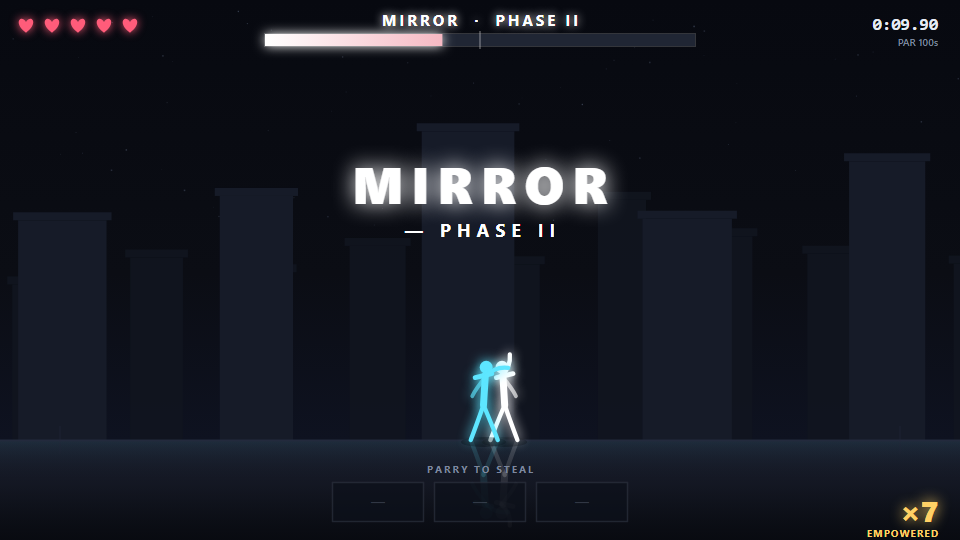
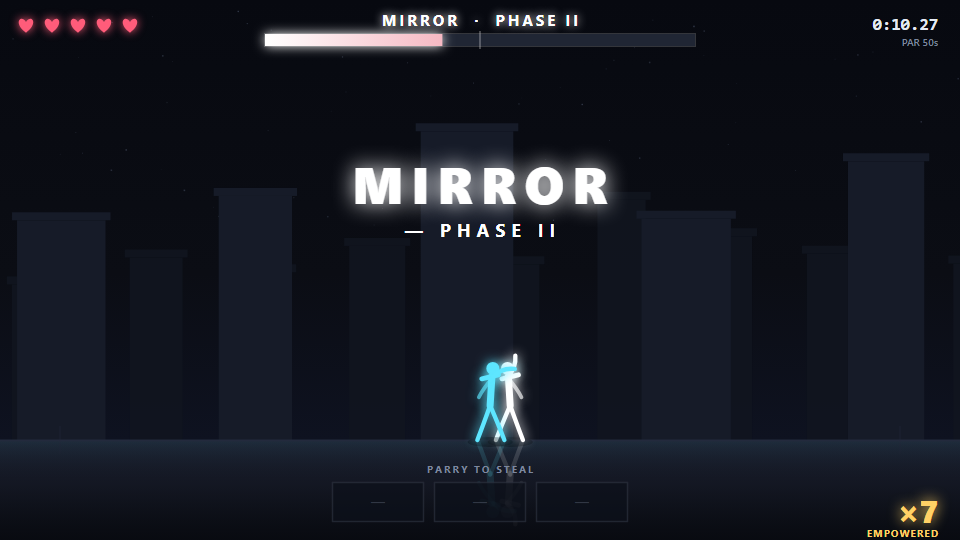
docs: README 8보스·스토리 절, CLAUDE.md 테스트 6종, handover 교훈, 스펙 §3.6/§7/§10 정정, 계획서

Changed region(s): [[0.4688, 0.6519, 0.5625, 0.8889], [0.9062, 0.0296, 1.0, 0.0889], [0.9375, 0.9185, 0.9688, 0.9778]]

diff --git a/docs/superpowers/specs/2026-09-09-riposte-design.md b/docs/superpowers/specs/2026-09-09-riposte-design.md
@@ -182,7 +182,7 @@
 - P1 패턴: `[thrust]`, `[feint-thrust]`, `[slash, thrust]`, `[arrow, close, slash]`, `[slam]`
 - P2 패턴: `[mirror ×hand.length]`, `[feint-slash, thrust]`, `[execution]`, `[arrow, arrow, slam]`
 
-### 3.5 LANTERN — 환술사 (HP 280, par 40s) — 챕터 2 · 색 읽기 (2026-09-17)
+### 3.5 LANTERN — 환술사 (HP 280, par 60s) — 챕터 2 · 색 읽기 (2026-09-17)
 
 실루엣 `blade`(기존 무기 재사용), 색 `#7dff9a`. 엔진 변경 0.
 
@@ -199,27 +199,27 @@
 
 ### 3.6 CHORUS — 쌍검 (HP 300, par 45s) — 챕터 2 · 연속 패리
 
-실루엣 `spear`(기존 무기 재사용), 색 `#4d9dff`. 엔진 변경: 상수 1개(`BOSS.MIN_VOLLEY_GAP`).
+실루엣 `spear`(기존 무기 재사용), 색 `#4d9dff`. 엔진 변경: 상수 1개(`BOSS.MIN_VOLLEY_GAP`) + 공격 정의 필드 `volley`.
 
 | 공격 | 텔 | windup | 비고 | 훔친 기술 |
 |---|---|---|---|---|
-| twin | 금 ×2 (0.32s 간격) | 0.45 | 근접 2연타 = 스텝 `[twin, wait .32, twin]`. 각각 패리·훔침 가능 | TWIN (slash, 13) |
+| twin | 금 ×2 | 0.45 | `volley: { count: 2, interval: 0.35 }` — 근접 2연타. 각각 패리·훔침 가능 | TWIN (slash, 13) |
 | bolt | 금 (투사체, 속도 600) | 0.42 | 패리 시 반사 | BOLT (shot, 11) |
-| triad (P2) | 금 ×3 (0.30s 간격) | 0.50 | 근접 3연타 | TWIN |
+| triad (P2) | 금 ×3 | 0.50 | `volley: { count: 3, interval: 0.35 }` — 근접 3연타 | TWIN |
 | lance (P2) | **적** (charge 900) | 0.65 | Graven charge 재사용, wallStun 0.7 | — |
 
 - P1 패턴: `[twin]`, `[bolt]`, `[bolt, wait .35, twin]`, `[close, twin]`
 - P2 패턴: `[triad]`, `[lance]`, `[lance, triad]`, `[bolt, wait .3, bolt, close, twin]`
-- **근접 볼리 간격 하한 `BOSS.MIN_VOLLEY_GAP`(0.30s)**: `PARRY_PERFECT_WINDOW`(0.18) + `RECOVERY_ON_SUCCESS`(0.10) 보다 커야 두 번째 타격을 물리적으로 받을 수 있다. (SERAPH triple 의 0.22s 는 투사체라 도착 시차가 있어 성립.) 성공 시 단축 리커버리(§2.3)를 몸으로 익히는 보스.
+- **근접 연타(volley): active 뒤 recover 대신 재-windup**: `[atk, wait N, atk]`처럼 패턴 스텝을 나누면 공격 생명주기(windup→active→recover) 때문에 실제 타격 간격이 너무 벌어진다(recover 만 최소 0.4~0.6s). 그래서 `twin`/`triad`처럼 한 공격 정의 안에 `volley: { count, interval }`을 두고, `active` 직후 `recover` 대신 `interval`(0.35) 만큼의 windup(= 새 플래시)을 거쳐 다음 타격으로 넘어간다(재-windup). 하한 `BOSS.MIN_VOLLEY_GAP`(0.35): `PARRY_PERFECT_WINDOW`(0.18) + `RECOVERY_ON_SUCCESS`(0.10) 보다 커야 두 번째 타격을 물리적으로 받을 수 있다. (SERAPH triple 의 0.22s 는 투사체라 도착 시차가 있어 성립.) 성공 시 단축 리커버리(§2.3)를 몸으로 익히는 보스.
 
-### 3.7 BASTION — 수문장 (HP 340, par 50s) — 챕터 2 · 아머 + 되받아치기
+### 3.7 BASTION — 수문장 (HP 310, par 50s) — 챕터 2 · 아머 + 되받아치기
 
 실루엣 `hammer`(기존 재사용, 색으로 구분), 색 `#a8b8c8`, armor: true. 엔진 변경: **deflect** 신규.
 
 | 공격 | 텔 | windup | 비고 | 훔친 기술 |
 |---|---|---|---|---|
-| ward | 금 | 0.80 | reach 170, slam 계열 | WARD (slam, 26) |
-| volley | 금 (지면 투사체, 속도 280) | 0.65 | 패리 시 반사. **반사되면 deflect 대상** | VOLLEY (shot, 16) |
+| ward | 금 | 0.80 | reach 170, slam 계열 | WARD (slam, 30) |
+| volley | 금 (지면 투사체, 속도 280) | 0.65 | 패리 시 반사. **반사되면 deflect 대상** | VOLLEY (shot, 20) |
 | bulwark (P2) | **적** (charge 880) | 0.70 | Graven charge 재사용 | — |
 
 - P1 패턴: `[ward]`, `[volley]`, `[volley, wait .4, ward]`, `[close, ward]`
@@ -227,7 +227,7 @@
 - **deflect(신규, `boss.js`)**: 플레이어 쪽에서 오는 투사체가 보스 `BOSS.DEFLECT_REACH`(120px) 안에 들어오고 보스가 idle/recover 상태이면 `DEFLECT_CHANCE`(P1 0.6 / P2 0.9)로 되받아친다. 랠리 3회째부터는 확률 1.0(`DEFLECT_FORCE_RALLY`). 되받은 투사체는 금 텔(패리 가능), 속도 ×`DEFLECT_SPEED_MULT`(1.25, 상한 `DEFLECT_SPEED_MAX` 720). 되받은 직후 보스는 `DEFLECT_RECOVER`(0.45s) 경직 = **카운터 창**. 속도 상한에 닿으면 플레이어가 블록으로 랠리를 끊게 유도된다.
 - 아머: Graven 규칙 계승(엠파워 리포스트만 interrupt). 가르침 — "반사만으로는 못 이긴다. 되받는 순간을 찔러라."
 
-### 3.8 AVARICE — 약탈자 (HP 400, par 60s) — 챕터 2 보스 · 빼앗김
+### 3.8 AVARICE — 약탈자 (HP 400, par 55s) — 챕터 2 보스 · 빼앗김
 
 실루엣 `mirror`(플레이어형), 색 `#ff2fa6`. 엔진 변경: **stealOnHit** 신규 + mirror 훅 재사용.
 
@@ -244,7 +244,7 @@
 - P2 패턴: `[mirror:'all']`, `[plunder]`, `[mirror:'loot', thrust]`, `[bolt, wait .3, bolt, wait .35, slam]`
 - 결말: 챕터 1 은 "내 손패가 비쳐 돌아온다", 챕터 2 는 "내 손패를 빼앗겨 맞는다". 스토리 결말(§10)과 맞물린다.
 
-**챕터 2 수치는 출발점이다.** 챕터 1 과 같은 3프로파일(완벽·숙련·평균) 봇 실측 후 par/HP 를 확정한다. HP 는 길이 레버가 아니다(handover 교훈 3) — 레버는 엠파워·카운터 배수 스택과 패턴 간격(gap).
+**챕터 2 수치는 확정값이다(2026-09-17)** — 챕터 1 과 같은 3프로파일(완벽·숙련·평균) 봇 실측으로 par/HP 를 확정했다. HP 는 길이 레버가 아니다(handover 교훈 3) — 레버는 엠파워·카운터 배수 스택과 패턴 간격(gap). 실측·레버 기록은 `docs/qa/balance-2026-09-17.md`.
 
 ---
 
@@ -296,7 +296,7 @@
 
 - 바닐라 JS + Canvas 2D, **classic `<script>` 태그** (ES module 금지 — `file://`에서도 열려야 함). 외부 CDN·폰트·이미지 0.
 - 논리 해상도 960×540, 창에 맞춰 letterbox 스케일, DPR 대응. 고정 스텝 업데이트(1/120s 누적기), 렌더는 rAF.
-- 결정론: 시드 RNG (`?seed=N`). 보스 패턴 선택만 RNG 사용.
+- 결정론: 시드 RNG (`?seed=N`). 보스 패턴 선택과 되받아치기(deflect) 확률만 RNG 사용.
 - 파일 구조:
 
 ```
@@ -362,5 +362,5 @@ README.md
 - **침묵행**: 본문이 `……` 뿐인 줄은 타자기 없이 즉시 표시, Enter 로 넘긴다.
 - **엔딩 연출**: AVARICE 정답 반응은 마지막 글자 전에 실루엣 알파를 0 으로(`DISSOLVE` 0.8s), 문장은 미완결로 남긴다. ENDING 카드 "NOTHING IS GIVEN. / EVERYTHING IS TAKEN. / NOTHING IS KEPT." 와 함께 손패 HUD 3칸이 `ENDING_SLOT_DROP`(0.4s) 간격으로 비어 간다.
 - **스킵**: `?boss=N` · `?story=0` · `startBoss(opts.noStory)`. 봇·스모크 하네스는 `?story=0` 로 진입하고, smoke 만 기본 경로로 STORY 통과를 1회 검증한다(§8-1).
-- **데이터**: `js/story.js` — `window.STORY[bossKey] = { before: [line…], after: [line…], choice?: { at, prompt, K: { text, ok, reply }, J: { text, ok, reply } } }`. line 은 문자열 또는 `{ text, hideSpeaker: true }`. 정의 테이블이므로 불변(§8-5). i18n 이 필요해지면 line 을 `{ ko, en }` 으로 바꾸고 조회 함수 하나만 추가한다.
+- **데이터**: `js/story.js` — `window.STORY[bossKey] = { before: [line…], after: [line…], choice?: { at, K: { text, ok, reply }, J: { text, ok, reply, dissolve? } } }`. `prompt` 필드는 없다 — 장면의 마지막 줄이 곧 질문이다. `dissolve: true` 는 정답 쪽에만 붙는(AVARICE `after` 선택지의 K) 연출 플래그. line 은 문자열 또는 `{ text, hideSpeaker: true }`. 정의 테이블이므로 불변(§8-5). i18n 이 필요해지면 line 을 `{ ko, en }` 으로 바꾸고 조회 함수 하나만 추가한다.
 - **줄기**(요약): 모든 보스의 기술도 빼앗은 것이고 원점은 "빌려줄 뿐 주지 않는" AVARICE. 챕터 1 = 되찾기(MIRROR), 챕터 2 = 빚의 주인. 결말 — 전부 쥔 채 "빈손" 이라 답하면 가져갈 것이 없어진다. 별명 "빈손" 은 VESPER 가 붙이고 SERAPH·LANTERN 을 거쳐 퍼진다.

diff --git a/docs/handover.md b/docs/handover.md
@@ -1,8 +1,8 @@
 # RIPOSTE — 인수인계 (handover)
 
-- 갱신: 2026-09-09
-- 상태: 플레이 가능 완성본. GitHub `kkp8121-rgb/riposte` (Public) → Pages `https://kkp8121-rgb.github.io/riposte/`
-- 설계 SSoT: `docs/superpowers/specs/2026-09-09-riposte-design.md` · 상수 SSoT: `js/config.js` + `js/bosses/*.js`
+- 갱신: 2026-09-17
+- 상태: 8보스(챕터 2개) + 헬테이커식 단문 대화(STORY) 완성본. GitHub `kkp8121-rgb/riposte` (Public) → Pages `https://kkp8121-rgb.github.io/riposte/`
+- 설계 SSoT: `docs/superpowers/specs/2026-09-09-riposte-design.md` · 스토리 대사 SSoT: `docs/superpowers/specs/2026-09-17-riposte-story-bible.md` · 상수 SSoT: `js/config.js` + `js/bosses/*.js`
 
 ## 무엇을 왜 택했나 (요약)
 - 형제 프로젝트 10종이 탑다운·마우스·서바이벌에 몰려 있어 **사이드뷰 1:1 보스러시 패리 듀얼(키보드 전용)** 을 골랐다. 후보 6종 비교표는 스펙 §1.2.
@@ -12,20 +12,27 @@
 ## 검증 하네스 (모두 헤드리스, `node ...`)
 | 명령 | 검증 내용 |
 |---|---|
-| `tests/smoke.mjs` | pageerror 0, 타이틀→FIGHT 진입, 무입력 60s 내 DEFEAT(위협 존재) |
-| `tests/bot.mjs --all` | 반응형 봇이 보스 4종 전부 승리 + 무입력 봇 패배. `--jitter/--miss/--think`로 인간형 프로파일 |
-| `tests/state.mjs` | 전투 전후 `window.BOSSES` JSON 동일 — 정의 테이블 불변성(과거 결함 회귀 방지) |
+| `tests/smoke.mjs` | pageerror 0, 타이틀→STORY(선택지·held Enter 체크)→FIGHT 진입, 무입력 60s 내 DEFEAT, R 재도전은 STORY 없이 INTRO 직행 |
+| `tests/bot.mjs --all` | 반응형 봇이 보스 8종 전부 승리 + 무입력 봇 패배. `--jitter/--miss/--think`로 인간형 프로파일 |
+| `tests/state.mjs` | 전투 전후 `window.BOSSES` · `window.STORY` JSON 동일 — 정의 테이블 불변성(과거 결함 회귀 방지) |
 | `tests/audio-smoke.mjs` | unmuted 헤드리스에서 AudioContext `running`, 모든 사운드 경로 무예외, mute→unmute 드론 복구 |
+| `tests/story.mjs` | 대사 테이블(`js/story.js`) 검사 — 브라우저 불필요. 8보스 전부 대사 존재, 장면당 ≤4줄, 느낌표 0, 선택지 3개 ok:true/false 각 1, 보스 전속 어미 교차 0 |
 | `tools/check-pages.mjs [url]` | 실제 Pages URL 로드: 404·pageerror·FIGHT 진입 |
-| `tools/shots.mjs` | README용 스크린샷(`docs/media/`) 재촬영 |
+| `tools/shots.mjs` | README용 스크린샷(`docs/media/`) 재촬영 — title·story·perfect-parry·mirror-phase2 4장 |
 
 ## 실패했던 시도와 교훈
 1. **봇 테스트 통과 ≠ 정상**: 1차 구현은 스모크·봇 전부 통과했지만 읽기 전용 opus 리뷰가 19건을 찾았다. 특히 (a) 패턴 스텝 객체를 그대로 opt로 넘겨 `_approached`가 정적 보스 정의를 영구 오염(R 재시작·시드 결정론 붕괴), (b) Phase 2를 유발한 타격의 후속 stagger가 포효 무적을 덮어씀, (c) 첫 키 latch + suspended AudioContext → Shift가 첫 키면 영구 무음. 셋 다 "로드→1전투→종료" 테스트로는 원리적으로 못 잡는다 → `tests/state.mjs`·`tests/audio-smoke.mjs`를 추가했다.
 2. **Node 쪽 봇 루프는 불가**: Node↔CDP 왕복 90~170ms라 0.15s 퍼펙트 창에 못 들어간다. 봇 결정 루프는 페이지 안(`installBot`)에서 돌고 Node는 오케스트레이션·단언만 한다.
 3. **HP 상향은 전투 길이를 거의 안 늘린다**: 봇의 처치 시간은 "보스가 패리 가능한 공격을 얼마나 자주 주느냐"에 묶여 있다. 길이 레버는 HP가 아니라 엠파워(×2)·카운터(×1.5) 배수 스택과 패턴 간격(gap)이다.
 4. feint는 "2차 플래시 → 그 공격의 정상 windup → 타격"이어야 §2.2(플래시→타격 항상 일정)를 지킨다. 별도 짧은 간격을 두면 리듬 학습이 깨진다.
+5. **근접 연타(volley)는 wait 스텝으로 만들 수 없었다**: 패턴을 `[atk, wait N, atk]`처럼 별도 스텝으로 나누면 생명주기(windup→active→recover) 때문에 실제 간격이 훨씬 벌어진다(recover 만 최소 0.4~0.6s라 총 간격이 1.2s 근처까지 늘어난다). 그래서 한 공격 정의 안에 `volley: { count, interval }`을 두고, active 직후 recover 대신 `interval`만큼의 재-windup(새 플래시)을 거쳐 다음 타격으로 넘어가게 했다(`boss.js updateAttack`). `interval` 하한은 `BOSS.MIN_VOLLEY_GAP`(0.35) — 퍼펙트 창 + 성공 시 단축 리커버리보다 커야 물리적으로 다음 타격을 받을 수 있다.
+6. **STORY 삽입이 "Enter 한 번 = FIGHT 진입"을 전제한 곳 3군데를 깼다**: 배너/시계 로직, `tests/audio-smoke.mjs`(제스처 후 바로 오디오 검증), `tests/bot.mjs`의 진입 경로가 모두 TITLE→Enter→FIGHT를 가정하고 있었다. TITLE과 FIGHT 사이에 STORY 씬이 끼어들며 셋 다 어긋났다 → 봇/오디오 하네스는 `?story=0`로 STORY 전체를 건너뛰게 하고, 보스 재도전(R)에는 `skipBefore` 플래그를 둬서(§10 "DEFEAT → R은 INTRO 직행") 이미 본 대사를 다시 틀지 않게 했다.
+7. **봇의 돌진 판정이 `id === 'charge'` 라 챕터 2 를 못 봤다**: GRAVEN 만 공격 id 가 `charge` 고, CHORUS 는 `lance`, BASTION 은 `bulwark` 다(셋 다 `kind: 'charge'`). id 로 판정하던 `tests/bot.mjs`는 챕터 2 돌진을 "돌진"으로 인식하지 못해 피하지 않고 맞았고, 그 결과 숙련 프로파일이 CHORUS·BASTION에서 죽었다. `attackState()`가 애초에 `kind`를 내보내지도 않아서 — `js/boss.js attackState()`에 `kind: a.def.kind`를 실어 보내고, 봇 판정을 `ca.kind === 'charge'`로 바꿔 고쳤다(GRAVEN은 id·kind가 모두 `charge`라 챕터 1 수치는 그대로). 상세: `docs/qa/balance-2026-09-17.md` §근본 원인.
 
 ## 남은 과제 / 아이디어
 - 밸런스 최종(2026-09-10, 사용자 결정 "이 정도로 멈추자 — 적당히 어려운 것이 도전욕구를 자극"): VESPER HP 120, par 30/35/40/50s, MIRROR gap 0.85/0.55, 패리 창 0.18/0.34s. 실측 — 완벽 봇 8~18s 전부 S/A, 숙련 프로파일(`--jitter=0.05 --miss=0.15 --think=0.25`) 10~28s 전부 승리, 평균 프로파일(`--miss=0.3 --jitter=0.09 --think=0.45`)은 사망. 추가 완화는 의도적으로 하지 않음.
+- 챕터 2 밸런스 최종(2026-09-17): LANTERN HP 280/par 60s, CHORUS HP 300/par 45s, BASTION HP 310/par 50s, AVARICE HP 400/par 55s. 실측·레버 기록은 `docs/qa/balance-2026-09-17.md` — 완벽 봇 8/8 S/A, 숙련 프로파일 8/8 승리.
+- **재실행 편차**: 같은 시드라도 헤드리스 프레임 타이밍 때문에 봇의 hits 가 회차마다 ±2 흔들린다(`docs/qa/balance-2026-09-17.md` 참고). 밸런스 판단은 단발 실측이 아니라 여러 번 돌려 하한을 보는 쪽이 안전하다.
+- **BASTION HP 290 후보**: 이번엔 340→310으로만 낮췄다. 여유가 더 필요하면 290도 후보로 남아 있다(추가 실측 필요 — 완벽 봇이 너무 쉬워지는지 확인 후 채택).
 - `?nofx=1`은 텍스트 팝·파티클만 끄고 히트스톱·흔들림·텔 버스트는 유지(의도).
 - 모바일 터치 UI 없음(키보드 전용이 설계).

diff --git a/README.md b/README.md
@@ -6,8 +6,9 @@
 
 A keyboard-only, side-view 1:1 boss-rush parry duel. You start with **zero attacks**. Every
 weapon in your hands was taken out of someone else's — a perfect parry doesn't just deflect
-a strike, it *steals* it. Four bosses, four stolen movesets, one mirror waiting at the end
-that gives all of it back.
+a strike, it *steals* it. Eight bosses across two chapters: a mirror waits at the end of
+chapter one to give everything back, and a taker waits at the end of chapter two to take it
+all first.
 
 ![Title screen](docs/media/title.png)
 
@@ -59,10 +60,28 @@ Rank per boss: **S** = no hits *and* under par · **A** = ≤1 hit *or* under pa
 
 | # | Boss | | What it teaches | What you take |
 |---|---|---|---|---|
+| — | **CHAPTER I — THE HAND** | | | |
 | 1 | **VESPER** | *The Duelist* | The parry itself. Opens slowly, flashes unmistakably. | `THRUST` `SLASH` |
 | 2 | **SERAPH** | *The Archer* | Reading projectiles and reflecting them. Keeps its distance. | `ARROW` `KICK` |
 | 3 | **GRAVEN** | *The Bulwark* | Armor — only an **empowered** riposte interrupts it. Dash *into* the charge. | `SLAM` `SHOCKWAVE` |
 | 4 | **MIRROR** | *Your Reflection* | Patience. It feints, and in Phase II it replays **your own hand** back at you. | everything |
+| — | **CHAPTER II — THE DEBT** | | | |
+| 5 | **LANTERN** | *The Illusionist* | Reading the colour, not the beat — gold and red twins share one rhythm. | `FLICKER` `SWEEP` |
+| 6 | **CHORUS** | *The Twin Blades* | Chained parries — two- and three-hit volleys. | `TWIN` `BOLT` |
+| 7 | **BASTION** | *The Warden* | Armor and deflection — it bats your reflected shots back; strike the recovery. | `WARD` `VOLLEY` |
+| 8 | **AVARICE** | *The Taker* | Every hit you take, it takes a card from your hand and uses it. | everything |
+
+---
+
+## Between fights
+
+Every boss opens and closes with a short scene — four lines or fewer, in Korean, first line
+always an unlabeled `???`. Three of them put a choice in your mouth: `K` to parry, `J` to
+riposte, and the wrong answer earns a `TAKEN.` card before the same choice comes back around.
+Retry a boss with `R` and the scene doesn't play again — only your first attempt sees it.
+`?story=0` skips every line if you just want the fights.
+
+![Story](docs/media/story.png)
 
 ---
 
@@ -76,7 +95,8 @@ Rank per boss: **S** = no hits *and* under par · **A** = ≤1 hit *or* under pa
   sub-path. All paths are relative.
 - Logical resolution 960×540, letterboxed to the window with device-pixel-ratio scaling.
   Fixed-step simulation at 1/120 s with an accumulator; rendering on `requestAnimationFrame`.
-- Deterministic: boss pattern selection is the only consumer of RNG, and it's seeded.
+- Deterministic: boss pattern selection and deflect chance are the only consumers of RNG,
+  and it's seeded.
 - Constants live in tables — `js/config.js` globally, `js/bosses/*.js` per boss. No magic
   numbers in the logic.
 
@@ -84,7 +104,8 @@ Rank per boss: **S** = no hits *and* under par · **A** = ≤1 hit *or* under pa
 
 | Param | Effect |
 |---|---|
-| `?boss=1..4` | Jump straight to a boss |
+| `?boss=1..8` | Jump straight to a boss (skips its story scene too) |
+| `?story=0` | Skip every story scene |
 | `?seed=N` | Seed the pattern RNG |
 | `?mute=1` | Start muted |
 | `?nofx=1` | Disable particles, rings, after-images and text pops. **Hit-stop, screen shake and slow-motion stay on** — they are part of the timing, not decoration, so judgement is identical with or without it |
@@ -103,15 +124,19 @@ That's it — double-click the file. No server needed.
 ### Tests
 
 ```
-node tests/smoke.mjs        # headless boot, title -> fight, 60s idle -> defeat, 0 page errors
-node tests/bot.mjs --all    # a reactive bot beats all four bosses; a passive bot loses
+npm install                 # playwright-core, once
+
+node tests/smoke.mjs        # headless boot, title -> story -> fight, 60s idle -> defeat, 0 page errors
+node tests/bot.mjs --all    # a reactive bot beats all eight bosses; a passive bot loses
 node tests/state.mjs        # boss definition tables stay byte-identical across a whole fight
 node tests/audio-smoke.mjs  # one keypress -> AudioContext running; every sound path callable
+node tests/story.mjs        # dialogue table rules: line/length limits, choice shape
 node tools/shots.mjs        # re-capture the README screenshots into docs/media/
 ```
 
-All of them use `playwright-core` with the bundled Chromium and drive the game through the
-debug hook `window.__RIPOSTE`. Test screenshots land in `tests/shots/`.
+All but `story.mjs` (a plain Node check of the dialogue table) use `playwright-core` with the
+bundled Chromium and drive the game through the debug hook `window.__RIPOSTE`. Test
+screenshots land in `tests/shots/`.
 
 ---
 

diff --git a/CLAUDE.md b/CLAUDE.md
@@ -7,10 +7,16 @@
 - 상수 SSoT: `js/config.js` (전역) + 각 `js/bosses/*.js` (보스 로컬 테이블). 매직넘버 하드코딩 금지.
 - 스크립트 로딩: classic `<script>` 순서 로딩. ES module·CDN·외부 폰트·이미지 금지 (`file://`와 GitHub Pages 모두에서 동작).
 - 디버그 훅: `window.__RIPOSTE` (스펙 §7). 테스트는 이 훅만 사용한다.
-- 테스트: `node tests/smoke.mjs`, `node tests/bot.mjs --boss=N` (playwright-core, 로컬 chromium).
+- 테스트: `npm install`(최초 1회, playwright-core) → `node tests/smoke.mjs` · `bot.mjs --all` ·
+  `state.mjs` · `audio-smoke.mjs` · `story.mjs`(브라우저 불필요) — 로컬 chromium. Pages 배포 확인은
+  `node tools/check-pages.mjs [url]`.
 - 브라우저 자동 실행 금지 (`start`/`open` 사용 금지). 헤드리스만 허용.
 - Git: author = 전역 설정(BHS). GitHub 계정 = `kkp8121-rgb`. 시크릿 커밋 금지.
 
 ## 참조
 - 설계 스펙: `docs/superpowers/specs/2026-09-09-riposte-design.md`
+- 스토리 대사 SSoT: `docs/superpowers/specs/2026-09-17-riposte-story-bible.md`
+- 챕터 2 제안서: `docs/superpowers/specs/2026-09-17-riposte-chapter2-proposal.md`
+- 구현 계획: `docs/superpowers/plans/2026-09-17-riposte-chapter2-story.md`
+- 밸런스 실측: `docs/qa/balance-2026-09-17.md`
 - 인수인계: `docs/handover.md` (세션 종료 시 갱신)

diff --git a/docs/qa/balance-2026-09-17.md b/docs/qa/balance-2026-09-17.md
@@ -62,7 +62,7 @@ PASSIVE(무입력) → DEFEAT 13.5s. page errors 0. `BOT PASSED`.
    `attackState()` 가 `kind` 를 아예 내보내지 않아 `ca.kind` 로 바꾸는 것만으로는 안 됐다(GRAVEN 까지 망가진다).
    → `js/boss.js attackState()` 에 `kind: a.def.kind` 를 실어 보내고, 봇은 `ca.kind === 'charge'` 로 판정.
    GRAVEN 은 id·kind 가 모두 `charge` 라 **챕터 1 수치는 전부 그대로**다(실측으로 확인: 10.34/15.26/17.33/28.17).
-2. **P2 돌진 밀도가 챕터 1 의 2배였다.** GRAVEN P2 풀은 돌진이 1/5, CHORUS·BASTION 은 **2/4**였다.
+2. **P2 돌진 밀도가 챕터 1 의 2배였다.** GRAVEN P2 풀은 돌진이 1/4, CHORUS·BASTION 은 **2/4**였다.
 
 # 시도한 레버와 결과 (한 번에 하나)
 
